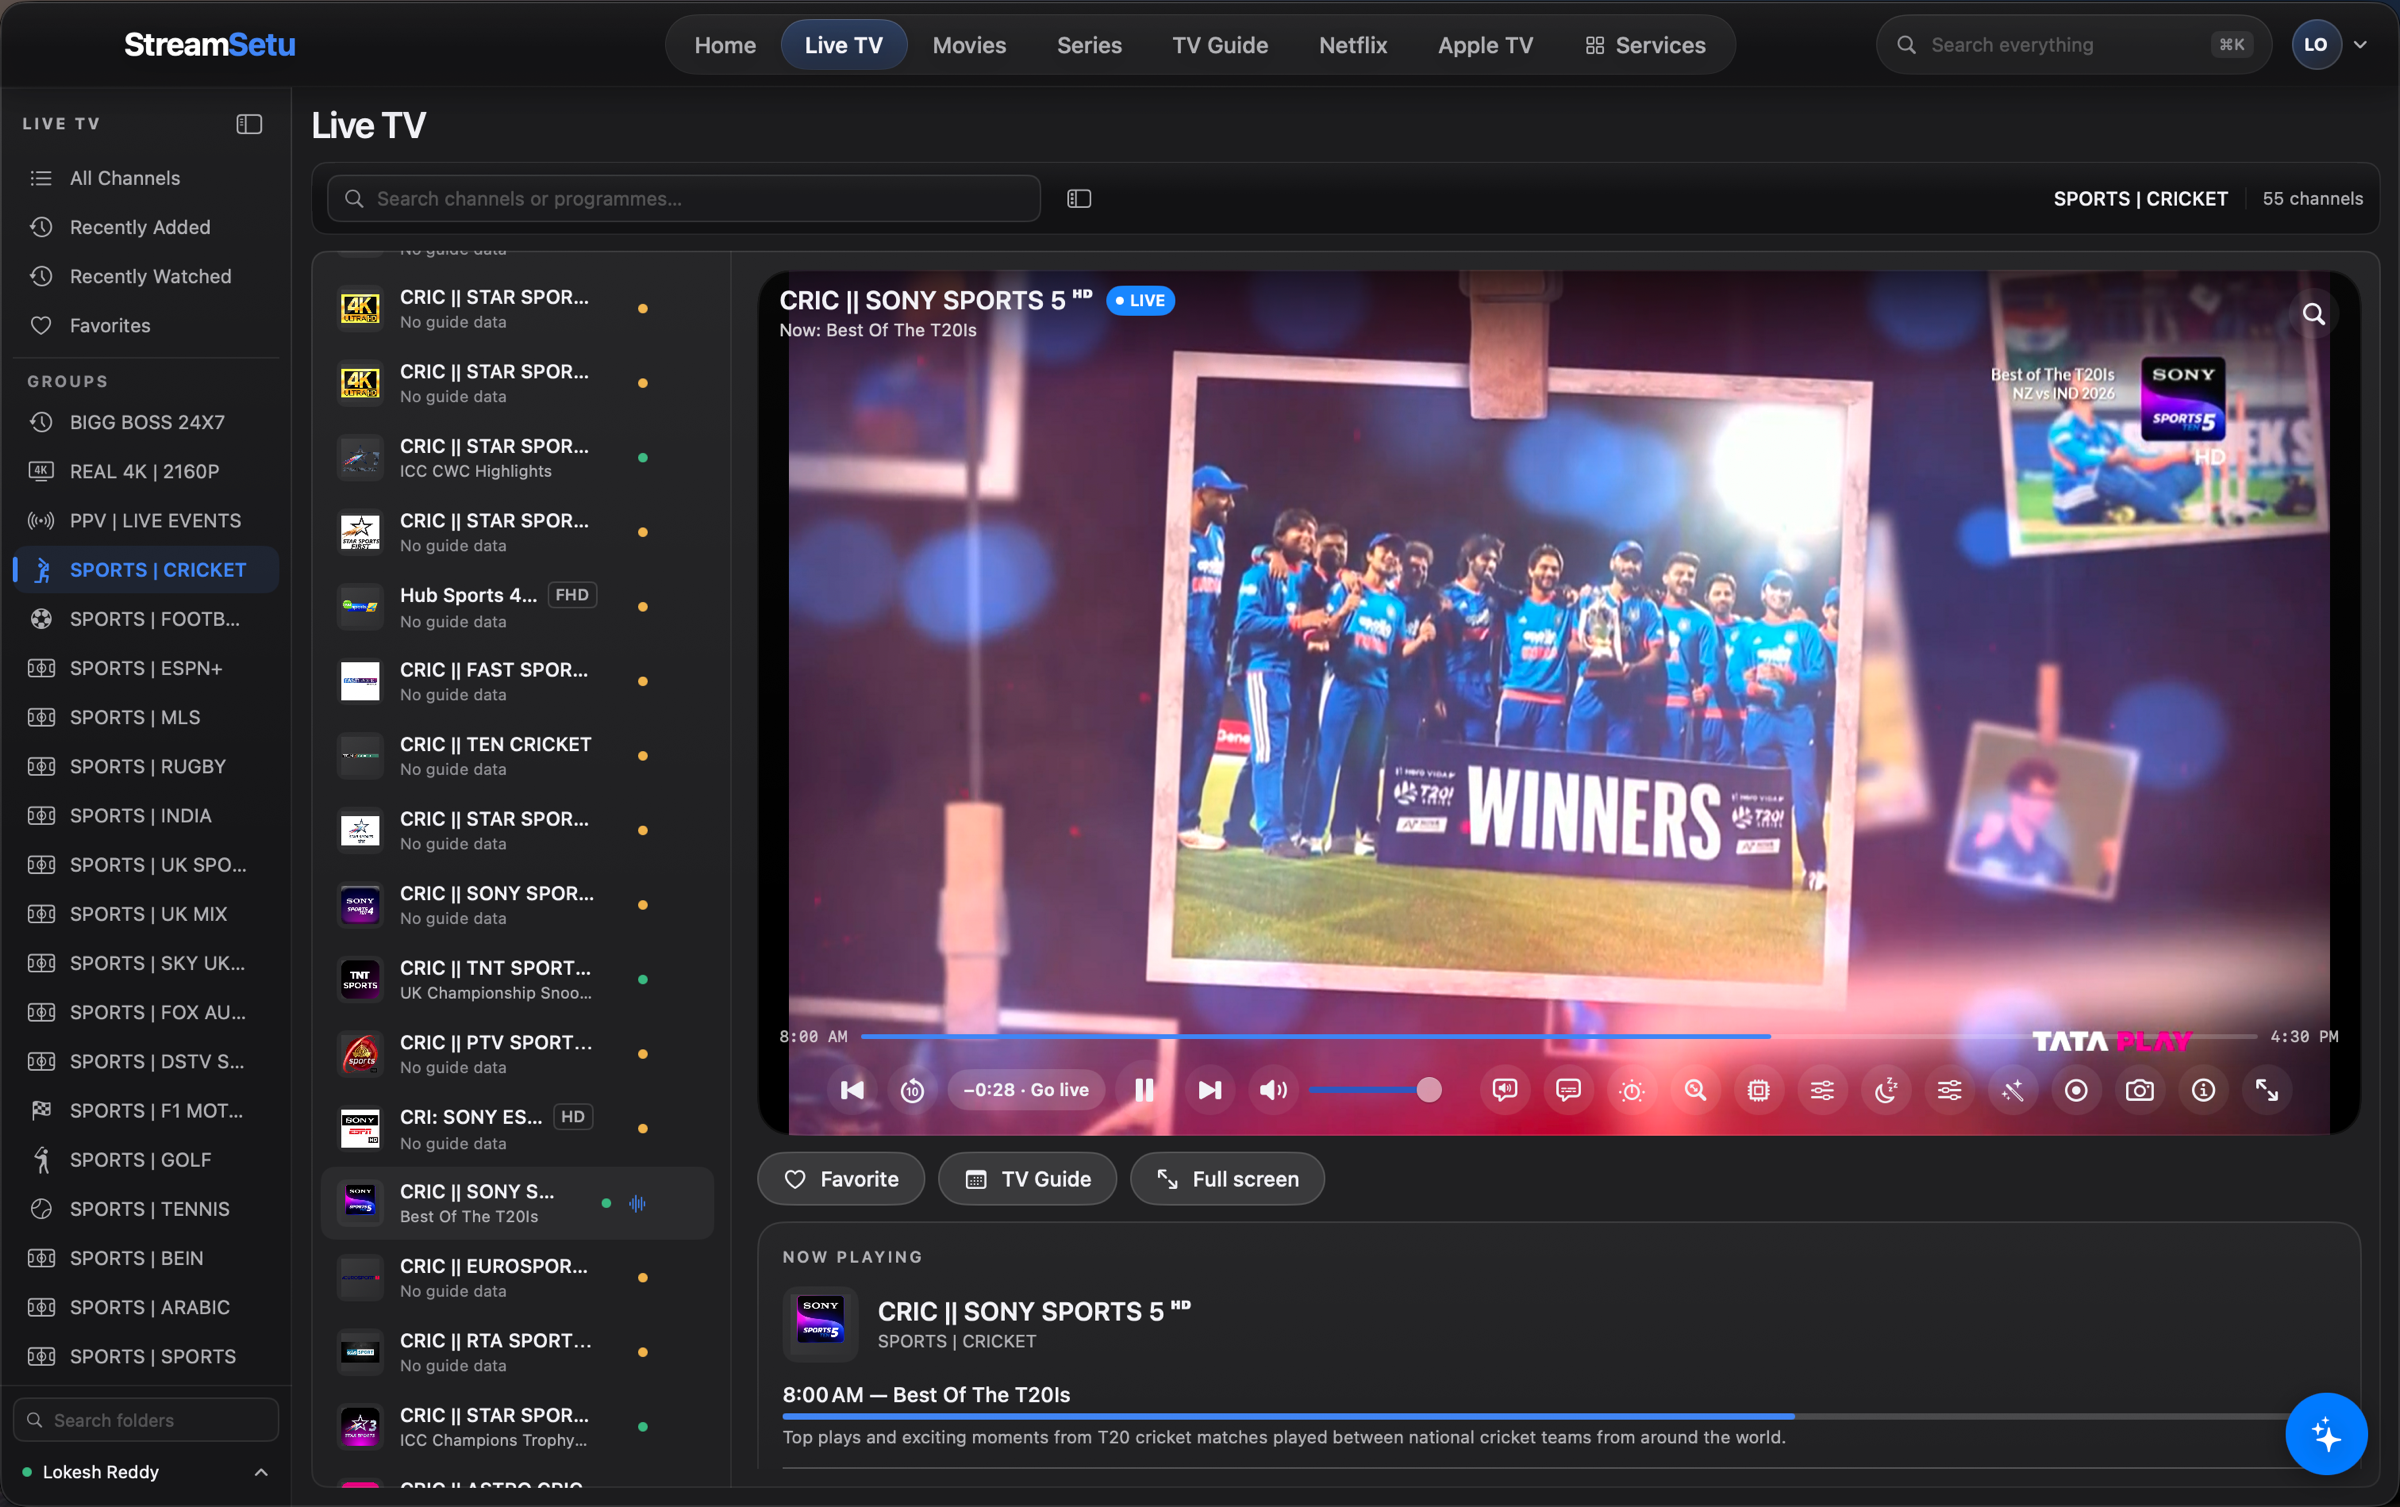
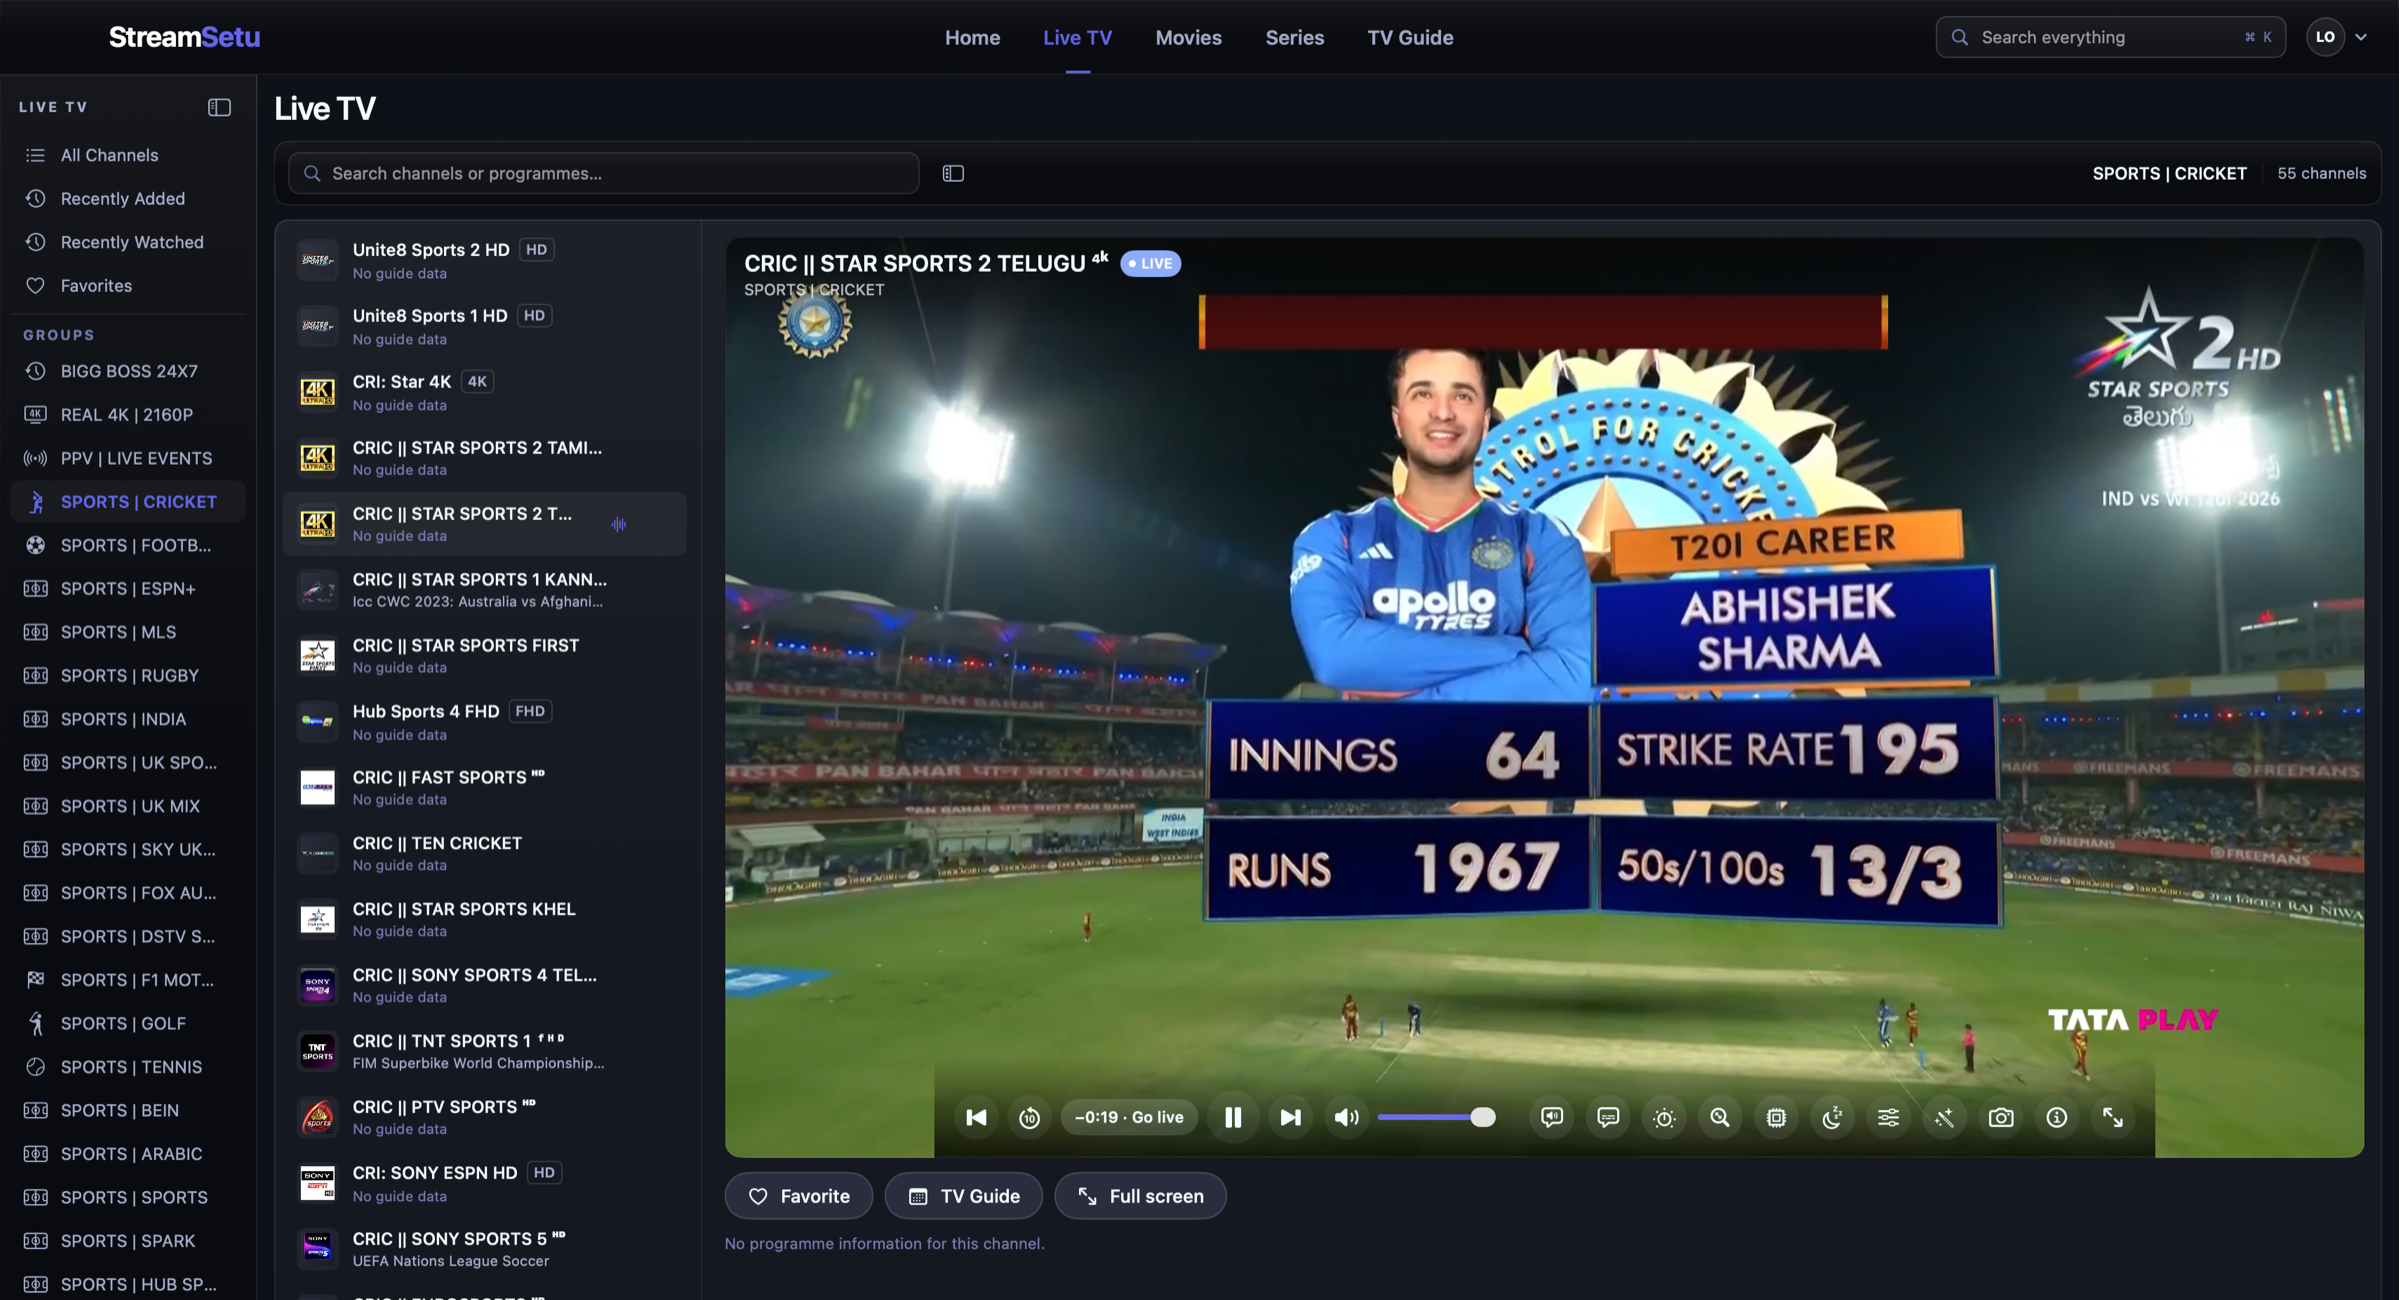
README: show only the Mac Home screenshot

diff --git a/README.md b/README.md
@@ -12,7 +12,7 @@ A native player for the IPTV playlists and media servers you already have. It ru
 
 <table>
   <tr>
-    <td width="50%" valign="top"><img src="docs/screenshots/mac-slideshow.gif" alt="StreamSetu on Mac: Home, Live TV, Movies and Series in turn" width="100%"></td>
+    <td width="50%" valign="top"><img src="docs/screenshots/mac-home.png" alt="StreamSetu on Mac: Home" width="100%"></td>
     <td width="50%" valign="top"><img src="docs/screenshots/firetv-home-sidebar.png" alt="StreamSetu on Fire TV: Home with the sidebar" width="100%"></td>
   </tr>
   <tr>
